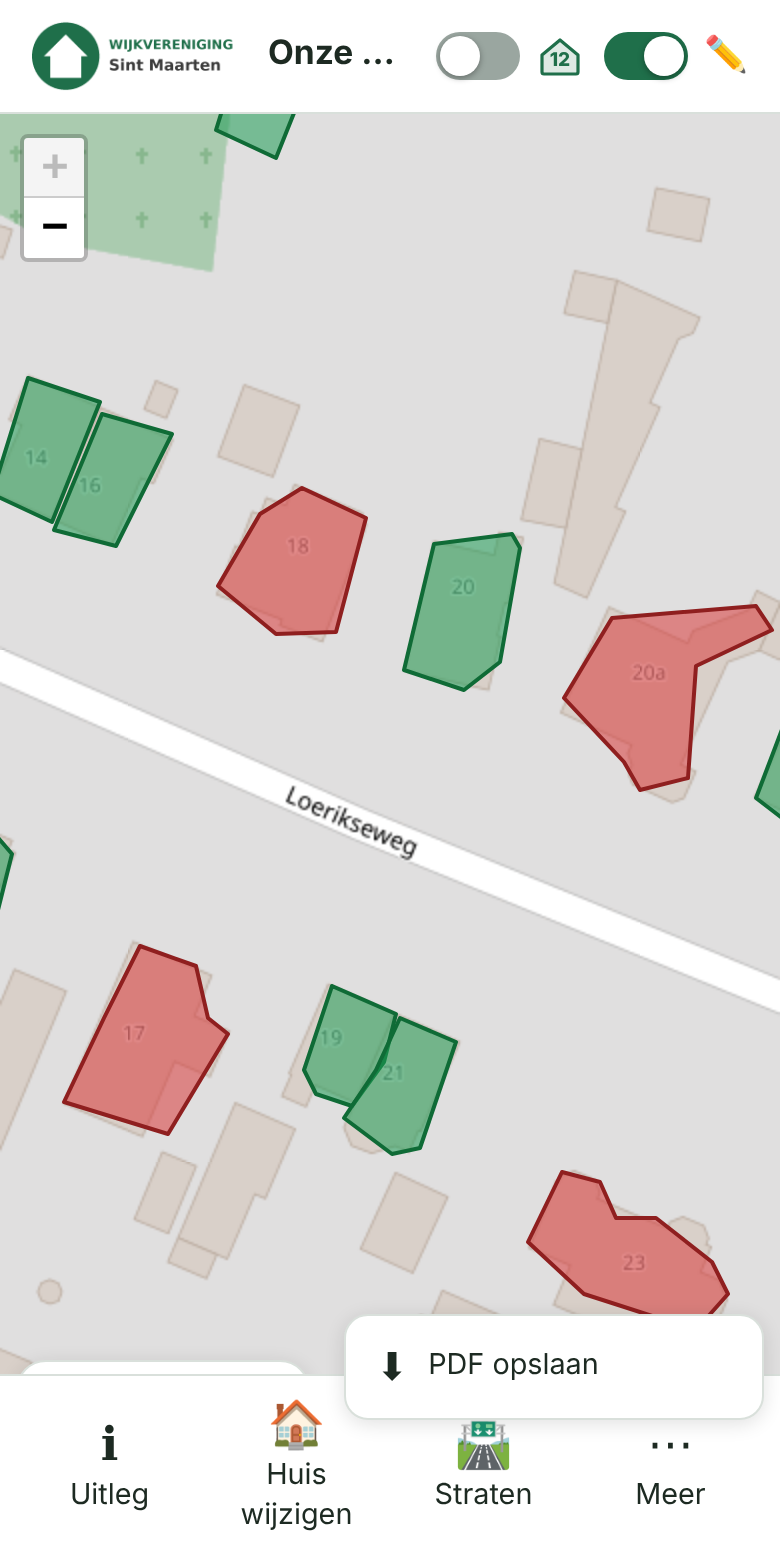
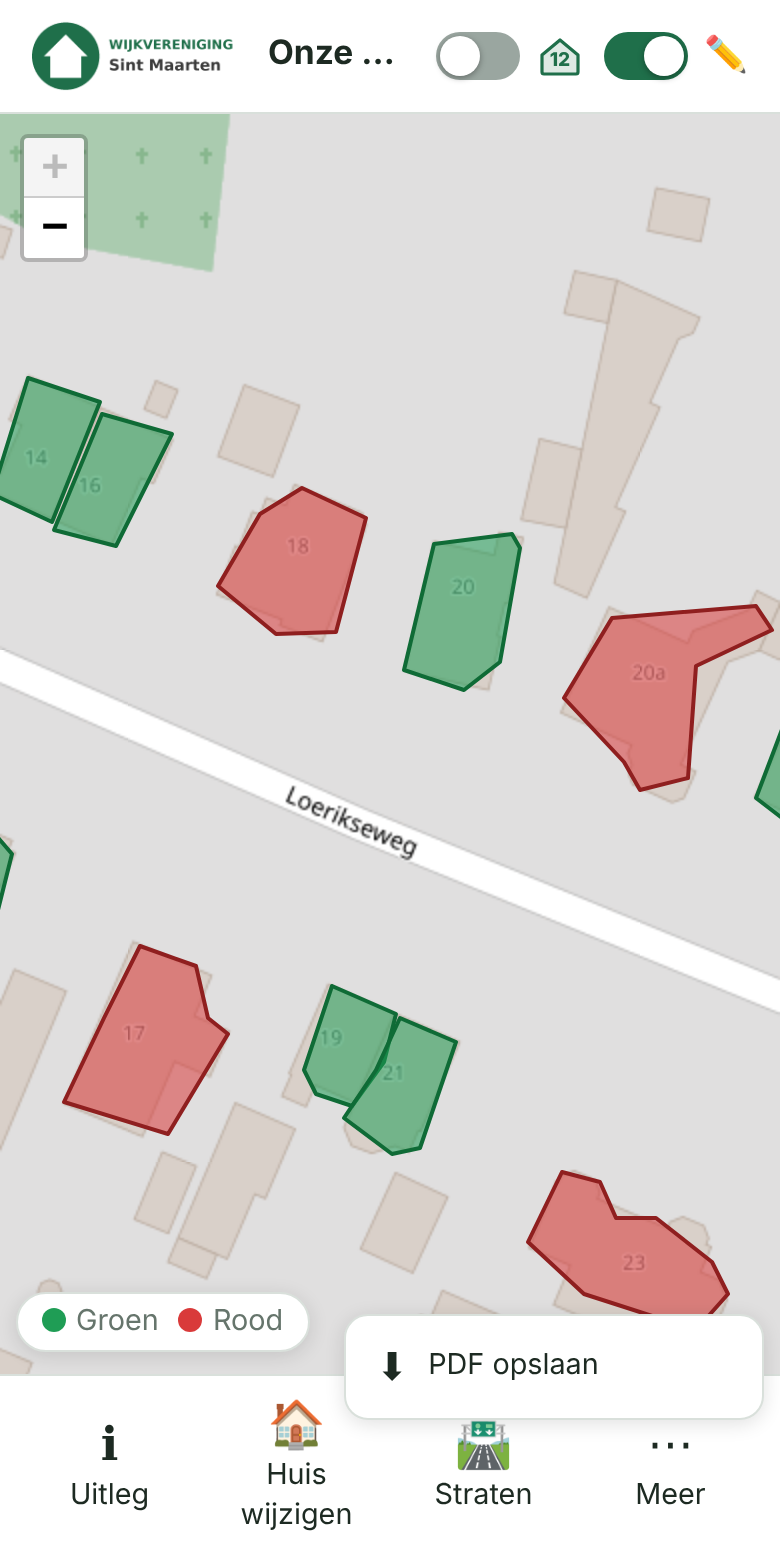
Meer-menu altijd aanwezig; statusbalkje altijd zichtbaar boven de menubalk
Claude-Session: https://claude.ai/code/session_01RbVCVsqhcBjjeTGeb2Cmpu

Changed region(s): [[0.0, 0.8308, 0.4, 0.8923], [0.2769, 0.0615, 0.3692, 0.1231]]

diff --git a/public/css/style.css b/public/css/style.css
@@ -154,7 +154,7 @@ dialog { max-height: 92vh; overflow-y: auto; }
   header.bar h1 { flex: 1; min-width: 0; font-size: 1.05rem; overflow: hidden; text-overflow: ellipsis; white-space: nowrap; }
   .switch-text { display: none; }
   #offline { position: fixed; top: 58px; left: 50%; transform: translateX(-50%); z-index: 1200; white-space: nowrap; box-shadow: var(--shadow); }
-  .legend { position: fixed; left: 8px; bottom: calc(70px + env(safe-area-inset-bottom)); z-index: 1200; gap: 10px;
+  .legend { position: fixed; left: 8px; bottom: calc(104px + env(safe-area-inset-bottom)); z-index: 1200; gap: 10px;
     background: var(--panel); border: 1px solid var(--line); border-radius: 999px; padding: 4px 12px; box-shadow: var(--shadow); }
   .actions { position: fixed; left: 0; right: 0; bottom: 0; z-index: 1300; justify-content: space-around; gap: 0;
     background: var(--panel); border-top: 1px solid var(--line); padding: 6px 8px calc(6px + env(safe-area-inset-bottom)); }
@@ -202,8 +202,7 @@ path.pending { animation: dash 1.2s linear infinite; }
 @keyframes dash { to { stroke-dashoffset: -32; } }
 @media (prefers-reduced-motion: reduce) { path.pending { animation: none; } }
 @media (max-width: 640px) {
-  .house-sheet { left: 8px; right: 8px; width: auto; bottom: calc(70px + env(safe-area-inset-bottom)); }
-  body.editing .legend { display: none; }
+  .house-sheet { left: 8px; right: 8px; width: auto; bottom: calc(146px + env(safe-area-inset-bottom)); }
 }
 
 /* meldingen voor de beheerder */

diff --git a/public/js/public.js b/public/js/public.js
@@ -161,17 +161,14 @@
   document.addEventListener('click', (e) => { if (!pop.hidden && !pop.contains(e.target)) closeMore(); });
   document.addEventListener('keydown', (e) => { if (e.key === 'Escape' && !pop.hidden) { closeMore(); moreBtn.focus(); } });
 
+  // PDF opslaan/bekijken en Installeer app staan altijd onder "Meer".
+  moved.forEach((b) => pop.append(b));
+  moreBtn.hidden = false;
+
   function setEditing(on) {
     document.body.classList.toggle('edit-mode', on);
     $('house-edit').hidden = !on;
-    moreBtn.hidden = !on;
-    if (on) {
-      moved.forEach((b) => pop.append(b)); // PDF opslaan (en Installeer app) onder "Meer"
-    } else {
-      closeMore();
-      moved.forEach((b) => bar.insertBefore(b, moreBtn)); // terug in de menubalk, in dezelfde volgorde
-      Wijk.leaveResident?.(); // wijzigmodus en venster sluiten
-    }
+    if (!on) Wijk.leaveResident?.(); // wijzigmodus en venster sluiten
   }
   // De beheerder kan Bewerken in de browser uitzetten (alleen de geïnstalleerde app mag dan wijzigen).
   $('edit-switch').onchange = () => setEditing($('edit-switch').checked);

diff --git a/README.md b/README.md
@@ -66,7 +66,7 @@ Pagina 2 bevat het logo, de uitleg en het overzicht van de gemarkeerde huizen.
 
 ## Bewoners: huis wijzigen
 - In de **geïnstalleerde app** (PWA) staat in de menubalk altijd een knop **Huis wijzigen**, plus een knop **Sync** (🔄) waarmee je de huizen direct bijwerkt (de app ververst ook zelf elke 30 seconden).
-- In een **gewone browser** staat bovenin een schakelaar **Bewerken** (✏). Zet je die aan, dan verschijnt de knop *Huis wijzigen* in de menubalk en verhuizen *PDF opslaan* en *Installeer app* naar een menu **Meer** (⋯) dat omhoog opent. Zet je de schakelaar uit, dan staat alles weer zoals het was. In de app is deze schakelaar verborgen.
+- In een **gewone browser** staat bovenin een schakelaar **Bewerken** (✏). Zet je die aan, dan verschijnt de knop *Huis wijzigen* in de menubalk. *PDF opslaan*, *PDF bekijken* en *Installeer app* staan altijd onder het menu **Meer** (⋯), ook in de app. Het balkje met de statuskleuren zweeft op een klein scherm altijd net boven de menubalk. In de app is deze schakelaar verborgen.
 
 ![Bewerken en Meer-menu](docs/screenshots/bewerken-meer-mobiel.png)
 
